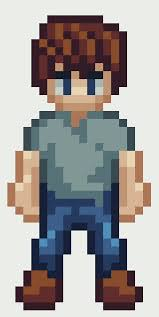
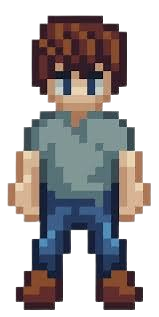
awdawd

Changed region(s): [[0.0, 0.0, 1.0, 0.9937]]

diff --git a/Menu.java b/Menu.java
@@ -1,0 +1,31 @@
+import greenfoot.*;  // (World, Actor, GreenfootImage, Greenfoot and MouseInfo)
+
+/**
+ * Write a description of class Menu here.
+ * 
+ * @author (your name) 
+ * @version (a version number or a date)
+ */
+public class Menu extends World
+{
+
+    /**
+     * Constructor for objects of class Menu.
+     * 
+     */
+    public Menu()
+    {    
+        // Create a new world with 600x400 cells with a cell size of 1x1 pixels.
+        super(1600, 900, 1);    
+        // make the header, it should not be background its header.png and position it at 800,150, scale it up to 2x
+        GreenfootImage header = new GreenfootImage("./images/header.png");
+        getBackground().drawImage(header, 800 - header.getWidth()/2, 200 - header.getHeight()/2);
+        GreenfootImage headart = new GreenfootImage("./images/head.png");
+        getBackground().drawImage(headart, 1200 - headart.getWidth()/2,  headart.getHeight());
+
+        Button start = new Button("Play.png");
+        addObject(start, 800, 450);
+        Button about = new Button("About.png");
+        addObject(about, 800, 625);
+    }
+}

diff --git a/Button.java b/Button.java
@@ -1,0 +1,27 @@
+import greenfoot.*;
+
+/**
+ * Write a description of class Button here.
+ * 
+ * @author (your name) 
+ * @version (a version number or a date)
+ */
+class Button extends Actor {
+    private GreenfootImage buttonImage;
+
+    public Button(String path) {
+        this.buttonImage = new GreenfootImage(path);
+        setImage(buttonImage);        
+    }
+    public void act() {
+        // Check for mouse interaction
+        if (Greenfoot.mouseClicked(this)) {
+            // This is where you would put the code that runs when the button is clicked.
+            // For example, you could switch to a different world:
+            // Greenfoot.setWorld(new AnotherWorld());
+            
+            // Or you could print a message to the console:
+            System.out.println("Button clicked!");
+        }   
+    }
+}
